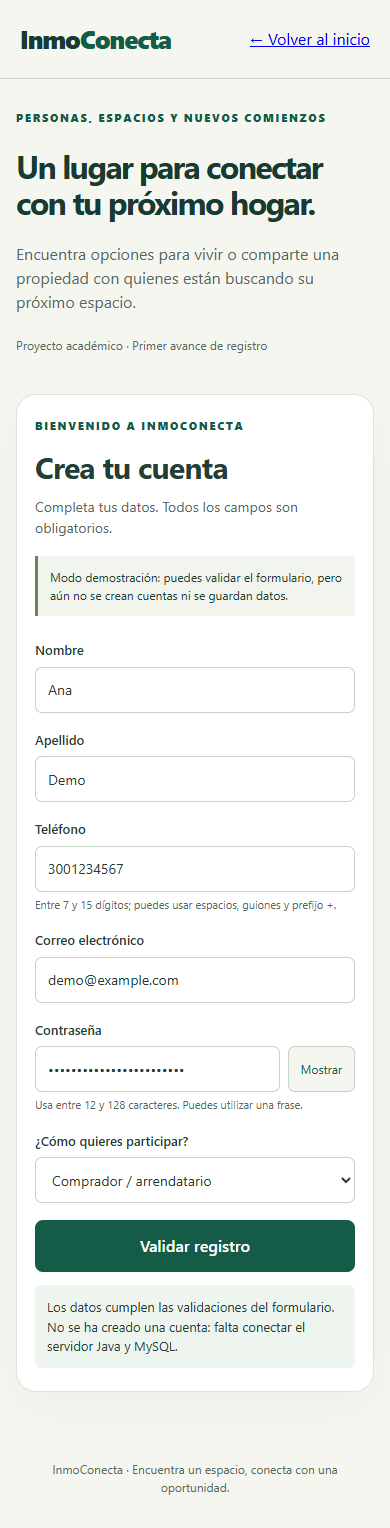
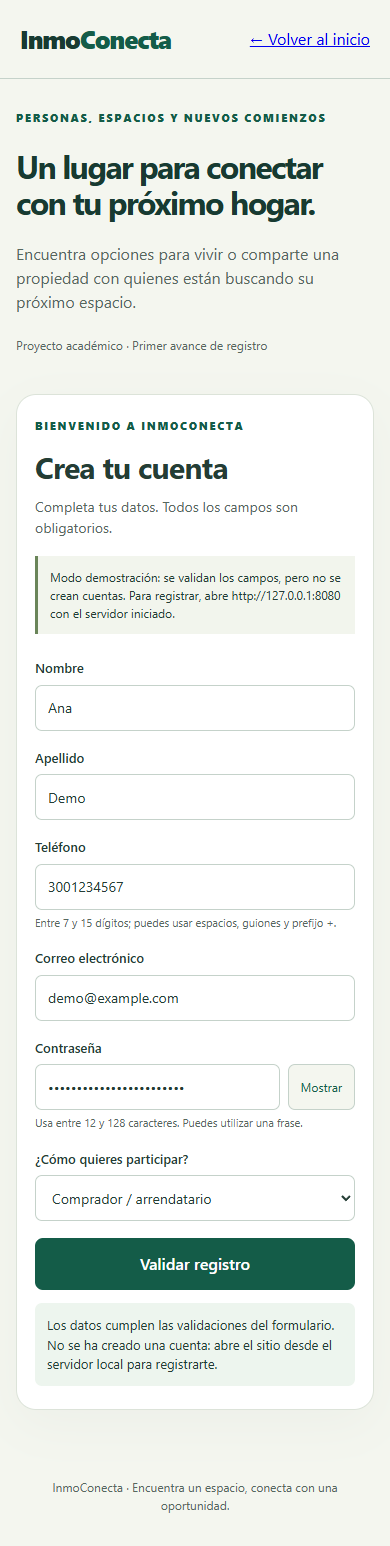
NMCNCT2-13: conectar registro web con Java y verificar MySQL

diff --git a/frontend/js/registro.js b/frontend/js/registro.js
@@ -5,6 +5,13 @@ const resultado = document.querySelector("#resultado");
 const campos = Array.from(formulario.querySelectorAll("input, select"));
 const contrasena = document.querySelector("#contrasena");
 const mostrarClave = document.querySelector("#mostrar-clave");
+const botonEnviar = formulario.querySelector('[type="submit"]');
+const modoArchivo = location.protocol === "file:";
+let enviando = false;
+document.querySelector("#modo-registro").textContent = modoArchivo
+  ? "Modo demostración: se validan los campos, pero no se crean cuentas. Para registrar, abre http://127.0.0.1:8080 con el servidor iniciado."
+  : "Crea tu cuenta como comprador o agente. Tus datos se enviarán al servidor local.";
+botonEnviar.textContent = modoArchivo ? "Validar registro" : "Crear cuenta";
 
 // Devuelve un mensaje si el dato falla; una cadena vacía significa que es válido.
 function validarCampo(campo) {
@@ -64,9 +71,10 @@ mostrarClave.addEventListener("click", () => {
   mostrarClave.setAttribute("aria-pressed", String(visible));
 });
 
-formulario.addEventListener("submit", (evento) => {
+formulario.addEventListener("submit", async (evento) => {
   // Evita recargar la página o enviar contraseñas mediante la URL.
   evento.preventDefault();
+  if (enviando) return;
   const camposInvalidos = campos.filter((campo) => mostrarError(campo));
   if (camposInvalidos.length) {
     resultado.className = "fallo";
@@ -75,8 +83,70 @@ formulario.addEventListener("submit", (evento) => {
     return;
   }
 
-  // Esta demostración no envía ni almacena datos, contraseñas o cuentas.
+  if (modoArchivo) {
   resultado.className = "exito";
-  resultado.textContent = "Los datos cumplen las validaciones del formulario. No se ha creado una cuenta: falta conectar el servidor Java y MySQL.";
+  resultado.textContent = "Los datos cumplen las validaciones del formulario. No se ha creado una cuenta: abre el sitio desde el servidor local para registrarte.";
   resultado.focus();
+  return;
+  }
+
+  const datos = Object.fromEntries(campos.map(campo => [campo.name, campo.value]));
+  enviando = true;
+  botonEnviar.disabled = true;
+  campos.forEach(campo => { campo.disabled = true; });
+  formulario.setAttribute("aria-busy", "true");
+  botonEnviar.textContent = "Creando cuenta…";
+  resultado.className = "";
+  resultado.textContent = "Enviando tus datos…";
+  const controlador = new AbortController();
+  const limite = setTimeout(() => controlador.abort(), 15000);
+  let enfocar = resultado;
+  try {
+    const respuesta = await fetch("/api/usuarios", {
+      method: "POST", headers: { "Content-Type": "application/json" },
+      body: JSON.stringify(datos), signal: controlador.signal
+    });
+    const cuerpo = await respuesta.json();
+    if (respuesta.status === 201 && cuerpo.codigo === "USUARIO_CREADO") {
+      resultado.className = "exito";
+      resultado.textContent = "Tu cuenta se creó correctamente. Ya estás registrado en InmoConecta. El inicio de sesión estará disponible en una próxima entrega.";
+      formulario.reset();
+      contrasena.type = "password";
+      mostrarClave.textContent = "Mostrar";
+      mostrarClave.setAttribute("aria-pressed", "false");
+      campos.forEach(campo => campo.removeAttribute("aria-invalid"));
+    } else {
+      resultado.className = "fallo";
+      if (respuesta.status === 409) {
+        resultado.textContent = "Este correo ya está registrado. Utiliza otro correo.";
+        document.querySelector("#error-correo").textContent = "Este correo ya está registrado.";
+        document.querySelector("#correo").setAttribute("aria-invalid", "true");
+        enfocar = document.querySelector("#correo");
+      } else if (respuesta.status === 400) {
+        resultado.textContent = "El servidor rechazó algunos datos. Revisa los campos indicados.";
+        for (const campo of campos) {
+          const mensaje = cuerpo.errores?.[campo.name];
+          if (typeof mensaje === "string") {
+            document.querySelector(`#error-${campo.id}`).textContent = mensaje;
+            campo.setAttribute("aria-invalid", "true");
+            if (enfocar === resultado) enfocar = campo;
+          }
+        }
+      } else {
+        resultado.textContent = "No pudimos completar el registro. Intenta nuevamente en unos momentos.";
+      }
+    }
+  } catch {
+    resultado.className = "fallo";
+    resultado.textContent = "No pudimos confirmar el registro. Comprueba que el servidor esté activo. Si vuelves a intentarlo y el correo ya existe, el primer envío pudo completarse.";
+  } finally {
+    clearTimeout(limite);
+    datos.contrasena = "";
+    enviando = false;
+    campos.forEach(campo => { campo.disabled = false; });
+    botonEnviar.disabled = false;
+    botonEnviar.textContent = "Crear cuenta";
+    formulario.removeAttribute("aria-busy");
+    enfocar.focus();
+  }
 });

diff --git a/frontend/index.html b/frontend/index.html
@@ -9,7 +9,7 @@
 <section class="wrap catalog" id="propiedades" aria-labelledby="titulo-propiedades"><div class="section-heading"><div><p class="eyebrow">ENCUENTRA TU ESPACIO</p><h2 id="titulo-propiedades">Pequeñas búsquedas.<br>Grandes comienzos.</h2></div><p>Explora esta selección de ejemplo. Las propiedades, ilustraciones y precios son ficticios; no son ofertas reales.</p></div>
 <div class="filters" role="group" aria-label="Filtrar propiedades de demostración"><div><label for="operacion">¿Qué estás buscando?</label><select id="operacion"><option value="">Venta y arriendo</option><option value="venta">Comprar</option><option value="arriendo">Arrendar</option></select></div><div><label for="municipio">¿Dónde quieres vivir?</label><select id="municipio"><option value="">Todos los municipios</option><option value="Medellín">Medellín</option><option value="Envigado">Envigado</option></select></div><button id="restablecer" class="button light" type="button">Restablecer filtros</button></div>
 <div class="results-line"><p id="contador" role="status" aria-live="polite" aria-atomic="true"></p><span>Catálogo de demostración</span></div><div class="cards" id="lista-propiedades"></div><div class="empty" id="sin-resultados" hidden><h3>No encontramos ejemplos con estos filtros</h3><p>Prueba otro municipio u operación, o pulsa «Restablecer filtros» para ver todas las propiedades.</p></div><noscript>Activa JavaScript para ver las propiedades de ejemplo y utilizar los filtros. Puedes acceder al registro desde el menú.</noscript></section>
-<section class="steps" aria-labelledby="como-funciona"><div class="wrap steps-grid"><div><p class="eyebrow">ASÍ EMPIEZA TU BÚSQUEDA</p><h2 id="como-funciona">El primer paso<br>es imaginarlo.</h2></div><div><span class="step-number" aria-hidden="true">01 /</span><h3>Explora a tu ritmo</h3><p>Elige venta o arriendo y el municipio que te interesa. Compara los espacios de nuestra selección de ejemplo.</p></div><div><span class="step-number" aria-hidden="true">02 /</span><h3>Conoce el registro</h3><p>Prueba el formulario como comprador o agente. En esta demo puedes validar tus datos; aún no se crea una cuenta desde la interfaz.</p></div></div></section>
+<section class="steps" aria-labelledby="como-funciona"><div class="wrap steps-grid"><div><p class="eyebrow">ASÍ EMPIEZA TU BÚSQUEDA</p><h2 id="como-funciona">El primer paso<br>es imaginarlo.</h2></div><div><span class="step-number" aria-hidden="true">01 /</span><h3>Explora a tu ritmo</h3><p>Elige venta o arriendo y el municipio que te interesa. Compara los espacios de nuestra selección de ejemplo.</p></div><div><span class="step-number" aria-hidden="true">02 /</span><h3>Conoce el registro</h3><p id="descripcion-registro">Accede al formulario como comprador o agente y completa tus datos.</p></div></div></section>
 <section class="wrap closing" aria-labelledby="siguiente"><div><p class="eyebrow">TU HISTORIA EMPIEZA AQUÍ</p><h2 id="siguiente">Dale espacio a un nuevo comienzo.</h2><p>Conoce el formulario de registro con datos ficticios.</p></div><a class="button" href="registro.html">Probar el registro ↗</a></section></main>
 <footer class="wrap footer"><span>InmoConecta · Personas, espacios y oportunidades.</span><span>Proyecto académico · Demo local · 2026</span></footer>
 </body></html>

diff --git a/frontend/registro.html b/frontend/registro.html
@@ -22,7 +22,7 @@
       <p class="etiqueta">BIENVENIDO A INMOCONECTA</p>
       <h2 id="titulo-formulario">Crea tu cuenta</h2>
       <p class="introduccion">Completa tus datos. Todos los campos son obligatorios.</p>
-      <p class="aviso">Modo demostración: puedes validar el formulario, pero aún no se crean cuentas ni se guardan datos.</p>
+      <p class="aviso" id="modo-registro">Abre esta página desde el servidor local para crear tu cuenta. Si la abres como archivo, solo validarás el formulario.</p>
       <!-- novalidate permite presentar mensajes propios y accesibles desde JavaScript. -->
       <form id="formulario-registro" novalidate>
         <div class="fila">

diff --git a/frontend/js/inicio.js b/frontend/js/inicio.js
@@ -32,3 +32,8 @@ document.querySelector("#restablecer").addEventListener("click", () => {
   mostrarPropiedades();
 });
 mostrarPropiedades();
+
+// La misma interfaz conserva una presentación sin servidor al abrirla como archivo.
+document.querySelector("#descripcion-registro").textContent = location.protocol === "file:"
+  ? "Prueba el formulario como comprador o agente. En modo archivo solo se validan los datos; no se crea una cuenta."
+  : "Crea tu cuenta como comprador o agente. El registro confirma el resultado después de guardar tus datos.";

diff --git a/frontend/css/styles.css b/frontend/css/styles.css
@@ -55,3 +55,5 @@ footer { text-align: center; padding: 20px 24px 32px; color: var(--gris); font-s
   .tarjeta { padding: 23px 18px; }
   .fila { grid-template-columns: 1fr; gap: 0; }
 }
+
+button:disabled { opacity: .65; cursor: wait; }

diff --git a/backend/src/com/inmoconecta/InterfazHandler.java b/backend/src/com/inmoconecta/InterfazHandler.java
@@ -1,0 +1,56 @@
+package com.inmoconecta;
+
+import com.sun.net.httpserver.HttpExchange;
+import com.sun.net.httpserver.HttpHandler;
+import java.io.IOException;
+import java.nio.charset.StandardCharsets;
+import java.nio.file.Files;
+import java.nio.file.Path;
+import java.util.Map;
+
+/** Solo publica los archivos de la interfaz; nunca el repositorio ni sus secretos. */
+public final class InterfazHandler implements HttpHandler {
+    private static final Map<String, String> ARCHIVOS = Map.ofEntries(
+        Map.entry("/", "index.html"), Map.entry("/index.html", "index.html"),
+        Map.entry("/registro.html", "registro.html"),
+        Map.entry("/css/inicio.css", "css/inicio.css"), Map.entry("/css/styles.css", "css/styles.css"),
+        Map.entry("/js/inicio.js", "js/inicio.js"), Map.entry("/js/registro.js", "js/registro.js"),
+        Map.entry("/assets/casa.svg", "assets/casa.svg"),
+        Map.entry("/assets/apartamento.svg", "assets/apartamento.svg"),
+        Map.entry("/assets/interior.svg", "assets/interior.svg"));
+    private final Path raiz;
+    public InterfazHandler(Path raiz) { this.raiz = raiz.toAbsolutePath().normalize(); }
+
+    @Override public void handle(HttpExchange s) throws IOException {
+        try {
+            String archivo = ARCHIVOS.get(s.getRequestURI().getRawPath());
+            if (archivo == null) { error(s, 404, "Ruta no encontrada."); return; }
+            if (!s.getRequestMethod().equals("GET") && !s.getRequestMethod().equals("HEAD")) {
+                s.getResponseHeaders().set("Allow", "GET, HEAD");
+                error(s, 405, "Método no permitido."); return;
+            }
+            Path destino = raiz.resolve(archivo);
+            if (!Files.isRegularFile(destino) || !destino.toRealPath().startsWith(raiz.toRealPath())) {
+                error(s, 404, "Archivo no encontrado."); return;
+            }
+            String tipo = archivo.endsWith(".html") ? "text/html; charset=utf-8"
+                : archivo.endsWith(".css") ? "text/css; charset=utf-8"
+                : archivo.endsWith(".js") ? "text/javascript; charset=utf-8" : "image/svg+xml";
+            s.getResponseHeaders().set("Content-Type", tipo);
+            s.getResponseHeaders().set("X-Content-Type-Options", "nosniff");
+            s.getResponseHeaders().set("Cache-Control", "no-store");
+            s.getResponseHeaders().set("Content-Security-Policy", "default-src 'self'; img-src 'self'; script-src 'self'; style-src 'self'; connect-src 'self'; frame-ancestors 'none'; base-uri 'self'; form-action 'self'");
+            if (s.getRequestMethod().equals("HEAD")) { s.sendResponseHeaders(200, -1); return; }
+            byte[] bytes = Files.readAllBytes(destino);
+            s.sendResponseHeaders(200, bytes.length);
+            s.getResponseBody().write(bytes);
+        } finally { s.close(); }
+    }
+    private static void error(HttpExchange s, int codigo, String texto) throws IOException {
+        byte[] bytes = texto.getBytes(StandardCharsets.UTF_8);
+        s.getResponseHeaders().set("Content-Type", "text/plain; charset=utf-8");
+        if (s.getRequestMethod().equals("HEAD")) { s.sendResponseHeaders(codigo, -1); return; }
+        s.sendResponseHeaders(codigo, bytes.length);
+        s.getResponseBody().write(bytes);
+    }
+}

diff --git a/backend/test/com/inmoconecta/ServidorPruebaInterfaz.java b/backend/test/com/inmoconecta/ServidorPruebaInterfaz.java
@@ -1,0 +1,24 @@
+package com.inmoconecta;
+
+import com.inmoconecta.registro.RegistroHandler;
+import com.sun.net.httpserver.HttpServer;
+import java.net.InetSocketAddress;
+import java.nio.file.Path;
+import java.sql.SQLException;
+import java.util.HashSet;
+
+/** Fixture de pruebas: HTTP real y almacenamiento temporal, nunca MySQL. */
+public final class ServidorPruebaInterfaz {
+    public static void main(String[] args) throws Exception {
+        var correos = new HashSet<String>();
+        var servidor = HttpServer.create(new InetSocketAddress("127.0.0.1", 0), 0);
+        servidor.createContext("/", new InterfazHandler(Path.of("frontend")));
+        servidor.createContext("/api/usuarios", new RegistroHandler((datos, hash) -> {
+            if (datos.correo().equals("fallo@example.com")) throw new SQLException("fallo de prueba");
+            if (!correos.add(datos.correo())) throw new SQLException("duplicado", "23000", 1062);
+            return correos.size();
+        }));
+        servidor.start();
+        System.out.println(servidor.getAddress().getPort());
+    }
+}

diff --git a/backend/src/com/inmoconecta/Servidor.java b/backend/src/com/inmoconecta/Servidor.java
@@ -24,7 +24,8 @@ public class Servidor {
             throw new IllegalArgumentException("Puerto permitido: 1 a 65535.");
         }
         HttpServer servidor = HttpServer.create(new InetSocketAddress("127.0.0.1", puerto), 0);
-        servidor.createContext("/", Servidor::atender);
+        servidor.createContext("/", new InterfazHandler(java.nio.file.Path.of("frontend")));
+        servidor.createContext("/api/estado", Servidor::atender);
         servidor.createContext("/api/usuarios", new RegistroHandler(new UsuarioDao()));
         var ejecutor = Executors.newFixedThreadPool(4);
         servidor.setExecutor(ejecutor);
@@ -33,7 +34,7 @@ public class Servidor {
             ejecutor.shutdownNow();
         }));
         servidor.start();
-        System.out.println("Servidor activo: http://127.0.0.1:" + puerto + "/api/estado");
+        System.out.println("Abre InmoConecta: http://127.0.0.1:" + puerto + "/");
         System.out.println("POST /api/usuarios disponible. Requiere DB_USER y DB_PASSWORD.");
         System.out.println("Para detener: Ctrl+C.");
     }

diff --git a/docs/t10-integracion.md b/docs/t10-integracion.md
@@ -1,0 +1,43 @@
+# T10 — Formulario conectado al registro Java
+
+## Ejecutar en Git Bash
+
+Desde la raíz del proyecto:
+
+```bash
+bash backend/scripts/iniciar-t09.sh
+```
+
+Introduce la contraseña de `inmoconecta_app` en la terminal. El script descarga las bibliotecas si faltan, compila el código actual y arranca Java. No guarda la contraseña en archivos. Deben estar instalados Java 21 y MySQL, con la base y el usuario de aplicación configurados según database/README.md.
+
+Abre **http://127.0.0.1:8080/**. Inicio, recursos y formulario los sirve Java. No uses doble clic ni Live Server para el registro real: el envío es al mismo origen `/api/usuarios`. Al abrir como archivo se conserva la validación demo sin envío.
+
+## Comportamiento implementado
+
+- Validación de campos antes del envío; contraseña sin recortar.
+- POST JSON con los seis campos del contrato.
+- Botón y campos deshabilitados durante el envío; evita envíos simultáneos.
+- HTTP 201 y código USUARIO_CREADO: confirma creación y limpia formulario/contraseña.
+- HTTP 409: señala correo repetido y enfoca ese campo.
+- HTTP 400: presenta errores del servidor por campo usando texto, sin interpretar HTML.
+- HTTP 500: mensaje general, sin detalles internos.
+- Error de red, respuesta ilegible o tiempo agotado: no afirma éxito; permite reintentar y avisa que el primer intento pudo completarse.
+- No almacena contraseñas en navegador ni archivos. Inicio de sesión pendiente.
+- Java sirve únicamente una lista explícita de recursos; no publica .env, fuentes, pruebas ni archivos del repositorio.
+
+## Verificación realizada
+
+- Compilación Java correcta.
+- 53 comprobaciones T09 satisfactorias (repositorio simulado).
+- Suite `frontend/tests/inicio.cjs`: filtros, teclado, navegación, validación demo, cinco anchos y ausencia de solicitudes externas al abrir archivo.
+- Suite `frontend/tests/registro-http.cjs`: navegador contra handlers Java reales y repositorio en memoria. 201 para ambos roles, 409 duplicado, 400 por campo, 500, fallo de red y envío único; rutas privadas devuelven 404, POST a archivo 405 y HEAD 200.
+- Captura de prueba HTTP en `docs/evidencias/t10/registro-http-prueba.png`. Usa repositorio de prueba, no acredita persistencia MySQL.
+
+Para repetir las suites de navegador se necesitan Node, Playwright y Chrome. Compilar primero `backend/src` y `backend/test`; ejecutar `node frontend/tests/registro-http.cjs`. Se puede indicar JAVA_EXE si Java no está en PATH. Las suites cierran su navegador y servidor de prueba al terminar.
+
+## Verificación MySQL de esta integración
+
+Verificado con frontend/tests/registro-mysql.cjs contra el servidor real del usuario: COMPRADOR id 3 y AGENTE id 5 creados con HTTP 201. Tras recargar el formulario y repetir cada correo, ambos recibieron HTTP 409. Contraseña del formulario vacía tras éxito. Resultados sin contraseñas en docs/evidencias/t10/mysql-resultados.json y capturas mysql-comprador.png y mysql-agente.png. Se conservaron los dos usuarios ficticios de prueba. Pendiente comprobar tras reiniciar Java y revisión de integración.
+
+El catálogo continúa ficticio. Esta entrega implementa el recorrido de registro de HU-01; no incluye autenticación, publicaciones reales ni contacto con agentes.
+

diff --git a/docs/hu02-inicio-demo.md b/docs/hu02-inicio-demo.md
@@ -64,3 +64,5 @@ HU-02 permanece En curso hasta revisión e integración. HU-01 y T10 mantienen s
 ## Límites de la entrega
 
 No hay publicaciones reales, detalles de inmuebles, contacto con agentes ni inicio de sesión. El catálogo reside en JavaScript, sin persistencia. El registro del navegador sigue en demostración; el backend Java/JDBC se trabaja por separado. Ilustraciones SVG originales incluidas en el repositorio, sin recursos externos.
+
+Actualización T10: al servir la página desde Java, el formulario sí registra en MySQL. Al abrirla como archivo mantiene la demo. Véase [integración y pruebas actuales](t10-integracion.md).

diff --git a/README.md b/README.md
@@ -29,7 +29,7 @@ Se construyó un formulario con:
 Formulario adaptable a móvil y escritorio, con validaciones en JavaScript,
 mensajes por campo y opción para mostrar u ocultar la contraseña.
 Es una demostración: no crea cuentas, no envía datos y no usa almacenamiento local.
-El backend Java/JDBC incluye registro; la conexión del formulario al endpoint sigue pendiente (T10).
+El backend Java/JDBC incluye registro y el formulario ya se conecta al abrirlo desde el servidor. Consulta [T10: ejecución y pruebas](docs/t10-integracion.md). La apertura como archivo conserva la demostración sin envío.
 
 ## Cómo probar este avance
 
